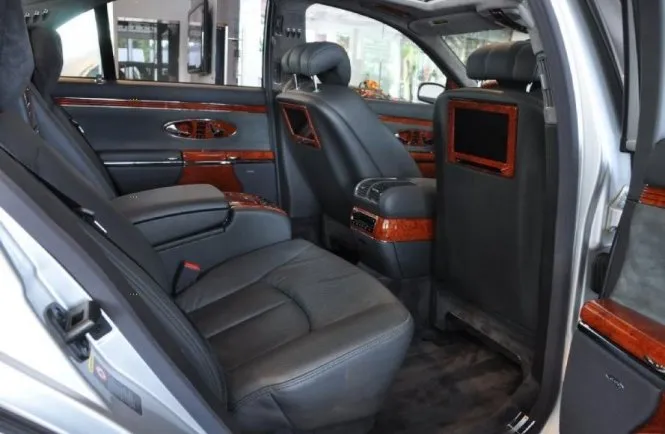
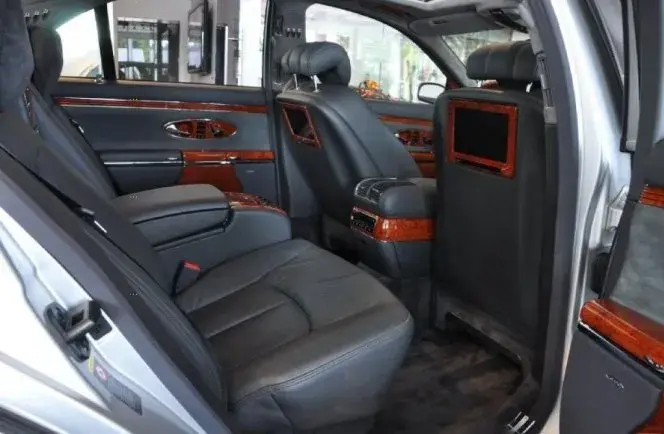
246

diff --git a/pic/ja_mb_img_l.html b/pic/ja_mb_img_l.html
@@ -456,7 +456,7 @@
 						<h4>57</h4>
 						<a href="full/l/w240_57_f.jpg"><img loading="lazy" src="style/l/w240_57_f.webp" alt="メルセデス,W240,マイバッハ,57,フロント" width="638" height="391"></a>
 						<a href="full/l/w240_57_r.jpg"><img loading="lazy" src="style/l/w240_57_r.webp" alt="メルセデス,W240,マイバッハ,57,リヤ" width="567" height="391"></a><br>
-						<a href="full/l/w240_57_i.jpg"><img loading="lazy" src="style/l/w240_57_i.webp" alt="メルセデス,W240,マイバッハ,57,内装" width="665" height="434"></a>
+						<a href="full/l/w240_57_i.jpg"><img loading="lazy" src="style/l/w240_57_i.webp" alt="メルセデス,W240,マイバッハ,57,内装" width="664" height="434"></a>
 						<a href="full/l/w240_57_d.jpg"><img loading="lazy" src="style/l/w240_57_d.webp" alt="メルセデス,W240,マイバッハ,57,ダッシュボード" width="541" height="434"></a>
 						<h4>62</h4>
 						<a href="full/l/w240_62_tp.jpg"><img loading="lazy" src="style/l/w240_62_tp.webp" alt="メルセデス,W240,マイバッハ,62,透視図" width="1210" height="756"></a><br>

diff --git a/pic/mb_img_l.html b/pic/mb_img_l.html
@@ -456,7 +456,7 @@
 						<h4>57</h4>
 						<a href="full/l/w240_57_f.jpg"><img loading="lazy" src="style/l/w240_57_f.webp" alt="Mercedes,W240,Maybach,57,Frontansicht" width="638" height="391"></a>
 						<a href="full/l/w240_57_r.jpg"><img loading="lazy" src="style/l/w240_57_r.webp" alt="Mercedes,W240,Maybach,57,Rückansicht" width="567" height="391"></a><br>
-						<a href="full/l/w240_57_i.jpg"><img loading="lazy" src="style/l/w240_57_i.webp" alt="Mercedes,W240,Maybach,57,Innenansicht" width="665" height="434"></a>
+						<a href="full/l/w240_57_i.jpg"><img loading="lazy" src="style/l/w240_57_i.webp" alt="Mercedes,W240,Maybach,57,Innenansicht" width="664" height="434"></a>
 						<a href="full/l/w240_57_d.jpg"><img loading="lazy" src="style/l/w240_57_d.webp" alt="Mercedes,W240,Maybach,57,Instrumententafel" width="541" height="434"></a>
 						<h4>62</h4>
 						<a href="full/l/w240_62_tp.jpg"><img loading="lazy" src="style/l/w240_62_tp.webp" alt="Mercedes,W240,Maybach,62,Perspektive" width="1210" height="756"></a><br>

diff --git a/pic/en_mb_img_l.html b/pic/en_mb_img_l.html
@@ -456,7 +456,7 @@
 						<h4>57</h4>
 						<a href="full/l/w240_57_f.jpg"><img loading="lazy" src="style/l/w240_57_f.webp" alt="Mercedes,W240,Maybach,57,Front view" width="638" height="391"></a>
 						<a href="full/l/w240_57_r.jpg"><img loading="lazy" src="style/l/w240_57_r.webp" alt="Mercedes,W240,Maybach,57,Rear view" width="567" height="391"></a><br>
-						<a href="full/l/w240_57_i.jpg"><img loading="lazy" src="style/l/w240_57_i.webp" alt="Mercedes,W240,Maybach,57,Interior" width="665" height="434"></a>
+						<a href="full/l/w240_57_i.jpg"><img loading="lazy" src="style/l/w240_57_i.webp" alt="Mercedes,W240,Maybach,57,Interior" width="664" height="434"></a>
 						<a href="full/l/w240_57_d.jpg"><img loading="lazy" src="style/l/w240_57_d.webp" alt="Mercedes,W240,Maybach,57,Dashboard" width="541" height="434"></a>
 						<h4>62</h4>
 						<a href="full/l/w240_62_tp.jpg"><img loading="lazy" src="style/l/w240_62_tp.webp" alt="Mercedes,W240,Maybach,62,Perspective view" width="1210" height="756"></a><br>
